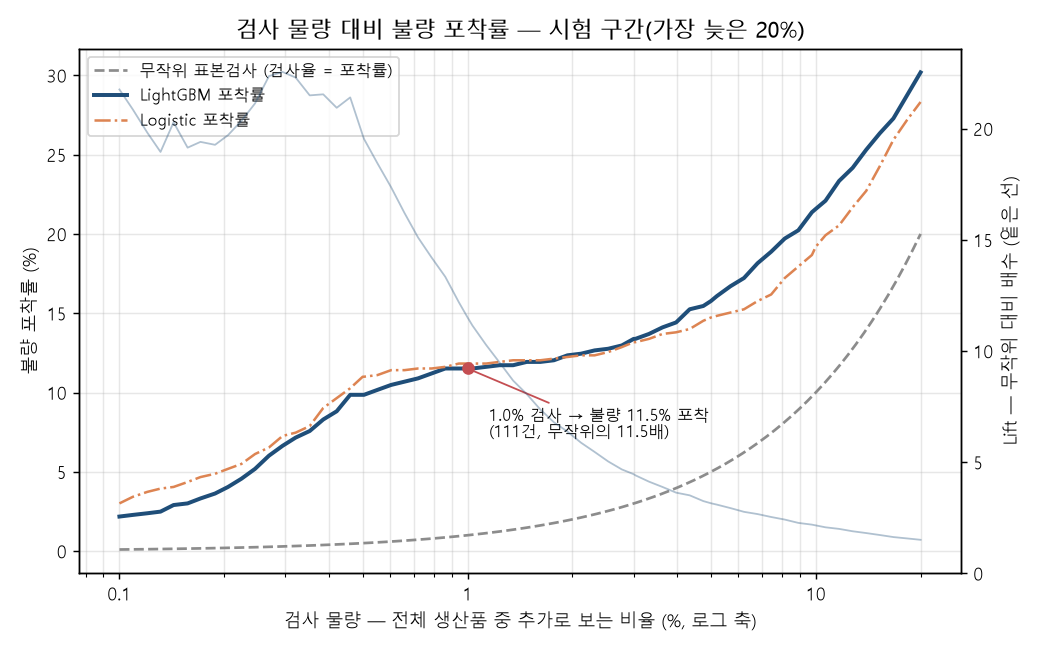
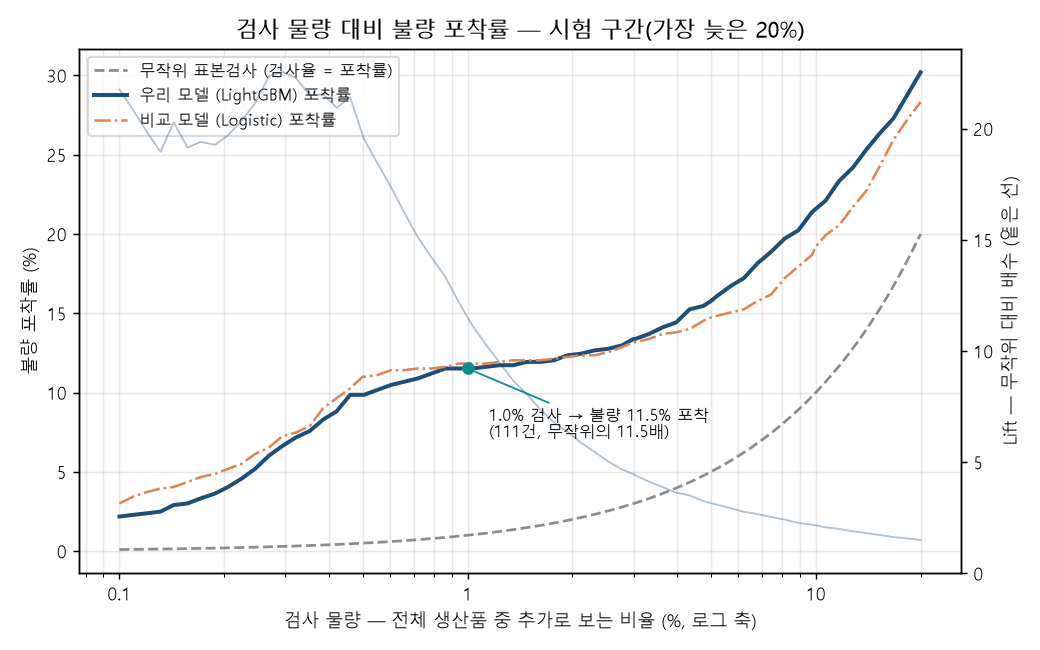
3번 페이지 표기를 사람이 읽는 단위로 바꿈
화면 시안(2026-10-26 명세의 [제안] 항목)을 반영함.

- 비교표: 비율은 %, Lift 는 배로 적고, 누설 포함 행은 흐리게 + 줄을 그어
  "배제 대상" 이 먼저 읽히게 함. 숫자가 제일 좋아서 그냥 두면 1등처럼 보임
- 기여도 표: station_key·최악순위 같은 코드 이름을 화면용 한국어로 바꿈
- 부풀림 설명에 기준 지표를 밝힘 — "PR-AUC 기준 9배(1% 포착률 기준 2.2배)".
  포트폴리오 페이지는 10-20 에 고쳤는데 이 화면 문장만 남아 있었음
- 시기별 포착률에 막대를 같이 둠. 표 2(비중)와 표 3(포착률)은 뜻이 달라
  숫자만 나란히 두면 "갈수록 못 잡는다" 로 잘못 읽힘
- 포착률 곡선 범례를 "우리 모델 / 비교 모델" 로, 선택 지점 강조를 빨강에서
  청록으로 뗌. 빨강은 "나쁜 결과" 에만 쓰기 위함
- F4 그림 제목에서 README 그림 번호를 뺌

테스트: 전체 118개 통과(새 테스트 1개 추가). 그림 2장 다시 생성함.

Changed region(s): [[0.1231, 0.1231, 0.3385, 0.2154], [0.4923, 0.5846, 0.5231, 0.6154], [0.4308, 0.5538, 0.4615, 0.5846]]

diff --git a/app/views/diagnostics.py b/app/views/diagnostics.py
@@ -9,6 +9,7 @@
 import sys
 from pathlib import Path
 
+import pandas as pd
 import streamlit as st
 
 sys.path.insert(0, str(Path(__file__).resolve().parents[1]))
@@ -24,14 +25,36 @@ require(
 # 문구 하나 때문에 lightgbm 까지 불러와 화면이 늦게 뜸
 
 st.subheader("모델 3종 비교 — 시험 구간")
-st.dataframe(table("T_모델비교", index_col=0), width="stretch")
+# 비율은 %, Lift 는 배로 적음. 0~1 소수를 그대로 두면 읽는 사람이 포착률 0.1151 을
+# 머릿속에서 11.5% 로 환산해야 함 (2026-10-29 화면 시안)
+comp = table("T_모델비교", index_col=0)
+FMT = {
+    "학습초": "{:.1f}초", "PR_AUC": "{:.4f}", "포착률@1%": "{:.1%}", "정밀도@1%": "{:.2%}",
+    "Lift@1%": "{:.1f}배", "실제검사율@1%": "{:.2%}", "MCC@1%": "{:.4f}",
+    "정확도(참고용)": "{:.2%}", "불량률": "{:.2%}",
+}
+shown = pd.DataFrame(
+    {c: comp[c].map(lambda v, f=f: "—" if pd.isna(v) else f.format(v)) for c, f in FMT.items()},
+    index=comp.index,
+).rename(columns={"학습초": "학습 시간", "PR_AUC": "PR-AUC", "Lift@1%": "무작위 대비@1%"})
+# 누설을 포함한 행은 숫자가 제일 좋아서 그냥 두면 1등처럼 보임. 흐리게 + 줄을 그어
+# "배제 대상" 이 먼저 읽히게 함
+st.dataframe(
+    shown.style.apply(
+        lambda r: ["color:#8a93a1; text-decoration:line-through"] * len(r)
+        if str(r.name).startswith("X_") else [""] * len(r),
+        axis=1,
+    ),
+    width="stretch",
+)
 st.caption("정확도는 일부러 같이 둠. 전부 양품이라고 답하는 Dummy 도 99.6%라 정확도로는 아무것도 구분되지 않음")
 
 st.subheader("평가 조건을 잘못 잡으면")
 show(figures.inflation(inflation()))
 st.caption(
     "Id 순서 누설은 인접 Id 의 정답을 쓰는 것이라 운영에서 얻을 수 없음 → 배제. "
-    "무작위 분할은 기간별 공정 상태 차이를 지워 9배 부풀림"
+    "무작위 분할은 기간별 공정 상태 차이를 지워 **PR-AUC 기준 9배** 부풀림 "
+    "(같은 조건에서 1% 포착률 기준으로는 2.2배). 몇 배인지는 어느 지표로 재느냐에 따라 다름"
 )
 
 st.subheader("임계값 운영")
@@ -51,7 +74,16 @@ how = st.radio(
     horizontal=True,
     help="합계는 측정값이 많은 공정이, 평균은 측정값 1~2개 공정이 유리함. 셋 다 상위인 공정을 봄",
 )
-st.dataframe(contrib.sort_values(f"{how}_순위").head(15), hide_index=True, width="stretch")
+# 열 이름이 코드 이름 그대로면 처음 보는 사람이 읽을 수 없음. 뜻은 그대로 두고 이름만 바꿈
+CONTRIB_NAMES = {
+    "station_key": "공정", "입력수": "입력 수", "상위포함수": "상위 포함 횟수",
+    "합계_순위": "합계 순위", "평균_순위": "평균 순위", "상위포함수_순위": "상위포함 순위",
+    "최악순위": "세 방식 중 가장 낮은 순위",
+}
+st.dataframe(
+    contrib.sort_values(f"{how}_순위").head(15).rename(columns=CONTRIB_NAMES),
+    hide_index=True, width="stretch",
+)
 show(figures.ablation(table("T_ablation")))
 st.caption(
     "SHAP 상위 공정을 빼도 2건, 절벽 구간 공정만 빼면 19건 줄었음. 공정 흐름 값과 절벽 구간 공정을 **함께** 빼야 "
@@ -70,6 +102,9 @@ tp = mix.loc["TP_잡음"] * prof.loc["TP_잡음", "제품수"]
 fn = mix.loc["FN_놓침"] * prof.loc["FN_놓침", "제품수"]
 recall = (tp / (tp + fn) * 100).round(1).rename("시기별 포착률(%)")
 st.dataframe(recall.to_frame().T, width="stretch")
+# 숫자만 나란히 두면 "시간이 갈수록 못 잡는다" 로 잘못 읽힘(실제로 W3 에 한 번 틀렸던 자리).
+# 넷째 시기 바닥과 다섯째 반등이 모양으로도 보이게 막대를 같이 둠
+st.bar_chart(recall, height=180)
 st.caption(
     "첫 표는 집단별 중앙값, 둘째 표는 시험 구간을 시기 5개로 나눈 비중(%), 셋째 줄은 시기별 포착률임. 잡은 불량의 42%가 첫 시기에 "
     "몰려 있고, 포착률은 넷째 시기까지 줄다가 다섯째 시기에 다시 오름 — 학습 시점에서 멀어질수록 단조롭게 "

diff --git a/src/figures.py b/src/figures.py
@@ -42,6 +42,9 @@ RUNS = ROOT / "runs"
 LINE_COLORS = {0: "#4C72B0", 1: "#DD8452", 2: "#55A868", 3: "#C44E52"}
 MAIN = "#1f4e79"
 GREY = "#8c8c8c"
+# 선택한 지점을 가리키는 색. 빨강은 "나쁜 결과"에만 쓰고,
+# "여기를 보라"는 뜻은 색을 나눠 둔다 (2026-10-29 화면 시안)
+PICK = "#0e8f8f"
 
 
 def _set_korean_font() -> None:
@@ -141,9 +144,12 @@ def capture_curve(curve: pd.DataFrame, highlight: float | None = 0.01) -> plt.Fi
     xs = np.geomspace(x_min, x_max, 100)
     ax.plot(xs * 100, xs * 100, ls="--", color=GREY, label="무작위 표본검사 (검사율 = 포착률)")
     styles = {"LightGBM": dict(color=MAIN, lw=2.2), "Logistic": dict(color="#DD8452", lw=1.4, ls="-.")}
+    # 범례는 모델 이름이 아니라 역할을 앞에 둔다. 이 화면의 주인공은 모델이 아니라
+    # "검사 물량을 얼마로 정할까" 라는 판단이다
+    labels = {"LightGBM": "우리 모델 (LightGBM) 포착률", "Logistic": "비교 모델 (Logistic) 포착률"}
     for name, g in curve.groupby("모델", sort=False):
-        ax.plot(g["실제_검사율"] * 100, g["포착률"] * 100, label=f"{name} 포착률",
-                **styles.get(name, {}))
+        ax.plot(g["실제_검사율"] * 100, g["포착률"] * 100,
+                label=labels.get(name, f"{name} 포착률"), **styles.get(name, {}))
     ax.set_xscale("log")
     ax.xaxis.set_major_formatter(PLAIN)
     ax.set_xlabel("검사 물량 — 전체 생산품 중 추가로 보는 비율 (%, 로그 축)")
@@ -158,13 +164,13 @@ def capture_curve(curve: pd.DataFrame, highlight: float | None = 0.01) -> plt.Fi
 
     if highlight is not None and len(main):
         row = main.iloc[(main["목표_검사율"] - highlight).abs().argmin()]
-        ax.scatter([row["실제_검사율"] * 100], [row["포착률"] * 100], color="#C44E52", zorder=5)
+        ax.scatter([row["실제_검사율"] * 100], [row["포착률"] * 100], color=PICK, zorder=5)
         ax.annotate(
             f"{row['실제_검사율']:.1%} 검사 → 불량 {row['포착률']:.1%} 포착\n"
             f"({int(row['포착_불량'])}건, 무작위의 {row['Lift']:.1f}배)",
             (row["실제_검사율"] * 100, row["포착률"] * 100),
             xytext=(12, -38), textcoords="offset points", fontsize=9,
-            arrowprops=dict(arrowstyle="-", color="#C44E52"),
+            arrowprops=dict(arrowstyle="-", color=PICK),
         )
     ax.legend(loc="upper left", fontsize=9)
     ax.set_title("검사 물량 대비 불량 포착률 — 시험 구간(가장 늦은 20%)")
@@ -331,7 +337,7 @@ def f4_start_time(hist: pd.DataFrame) -> plt.Figure:
         x = hist[col].iloc[0]
         ax.axvline(x, color="k", ls=":")
         ax.text(x, ax.get_ylim()[1] * 0.95, f" {name}", fontsize=9)
-    ax.set_title("F4 생산 기간과 불량률 — 기간마다 공정 상태가 다름 (시간 분할의 근거)")
+    ax.set_title("생산 기간과 불량률 — 기간마다 공정 상태가 다름 (시간 분할의 근거)")
     fig.tight_layout()
     return fig
 

diff --git a/tests/test_app.py b/tests/test_app.py
@@ -70,6 +70,25 @@ def test_diagnostics_renders():
     assert len(at.dataframe) >= 5
 
 
+def test_diagnostics_shows_readable_units():
+    # 2026-10-29 표기 개선: 비율은 %, Lift 는 배로 읽히게 바꿨다. 소수 그대로 두면
+    # 보는 사람이 0.1151 을 머릿속에서 11.5% 로 환산해야 한다
+    at = run("diagnostics.py")
+    assert not at.exception
+    comp = at.dataframe[0].value
+    assert comp.loc["2_LightGBM", "포착률@1%"] == "11.5%"
+    assert comp.loc["2_LightGBM", "무작위 대비@1%"] == "11.5배"
+    # 누설 포함 행은 지우지 않고 남긴다 — 배제 대상이라는 것 자체가 보여 줄 내용임
+    assert any(str(i).startswith("X_") for i in comp.index)
+    # 기여도 표의 열 이름은 코드 이름이 아니라 화면용 한국어여야 함
+    contrib = at.dataframe[1].value
+    assert "공정" in contrib.columns
+    assert "세 방식 중 가장 낮은 순위" in contrib.columns
+    assert "station_key" not in contrib.columns
+    # 시기별 포착률은 표와 막대를 같이 둔다 (표 2 의 비중과 헷갈리지 않게)
+    assert len(at.get("vega_lite_chart")) == 1
+
+
 def test_risk_monitor_without_artifact_shows_guide(tmp_path, monkeypatch):
     monkeypatch.setattr(common, "ARTIFACT", tmp_path / "없음.parquet")
     at = run("risk_monitor.py")
